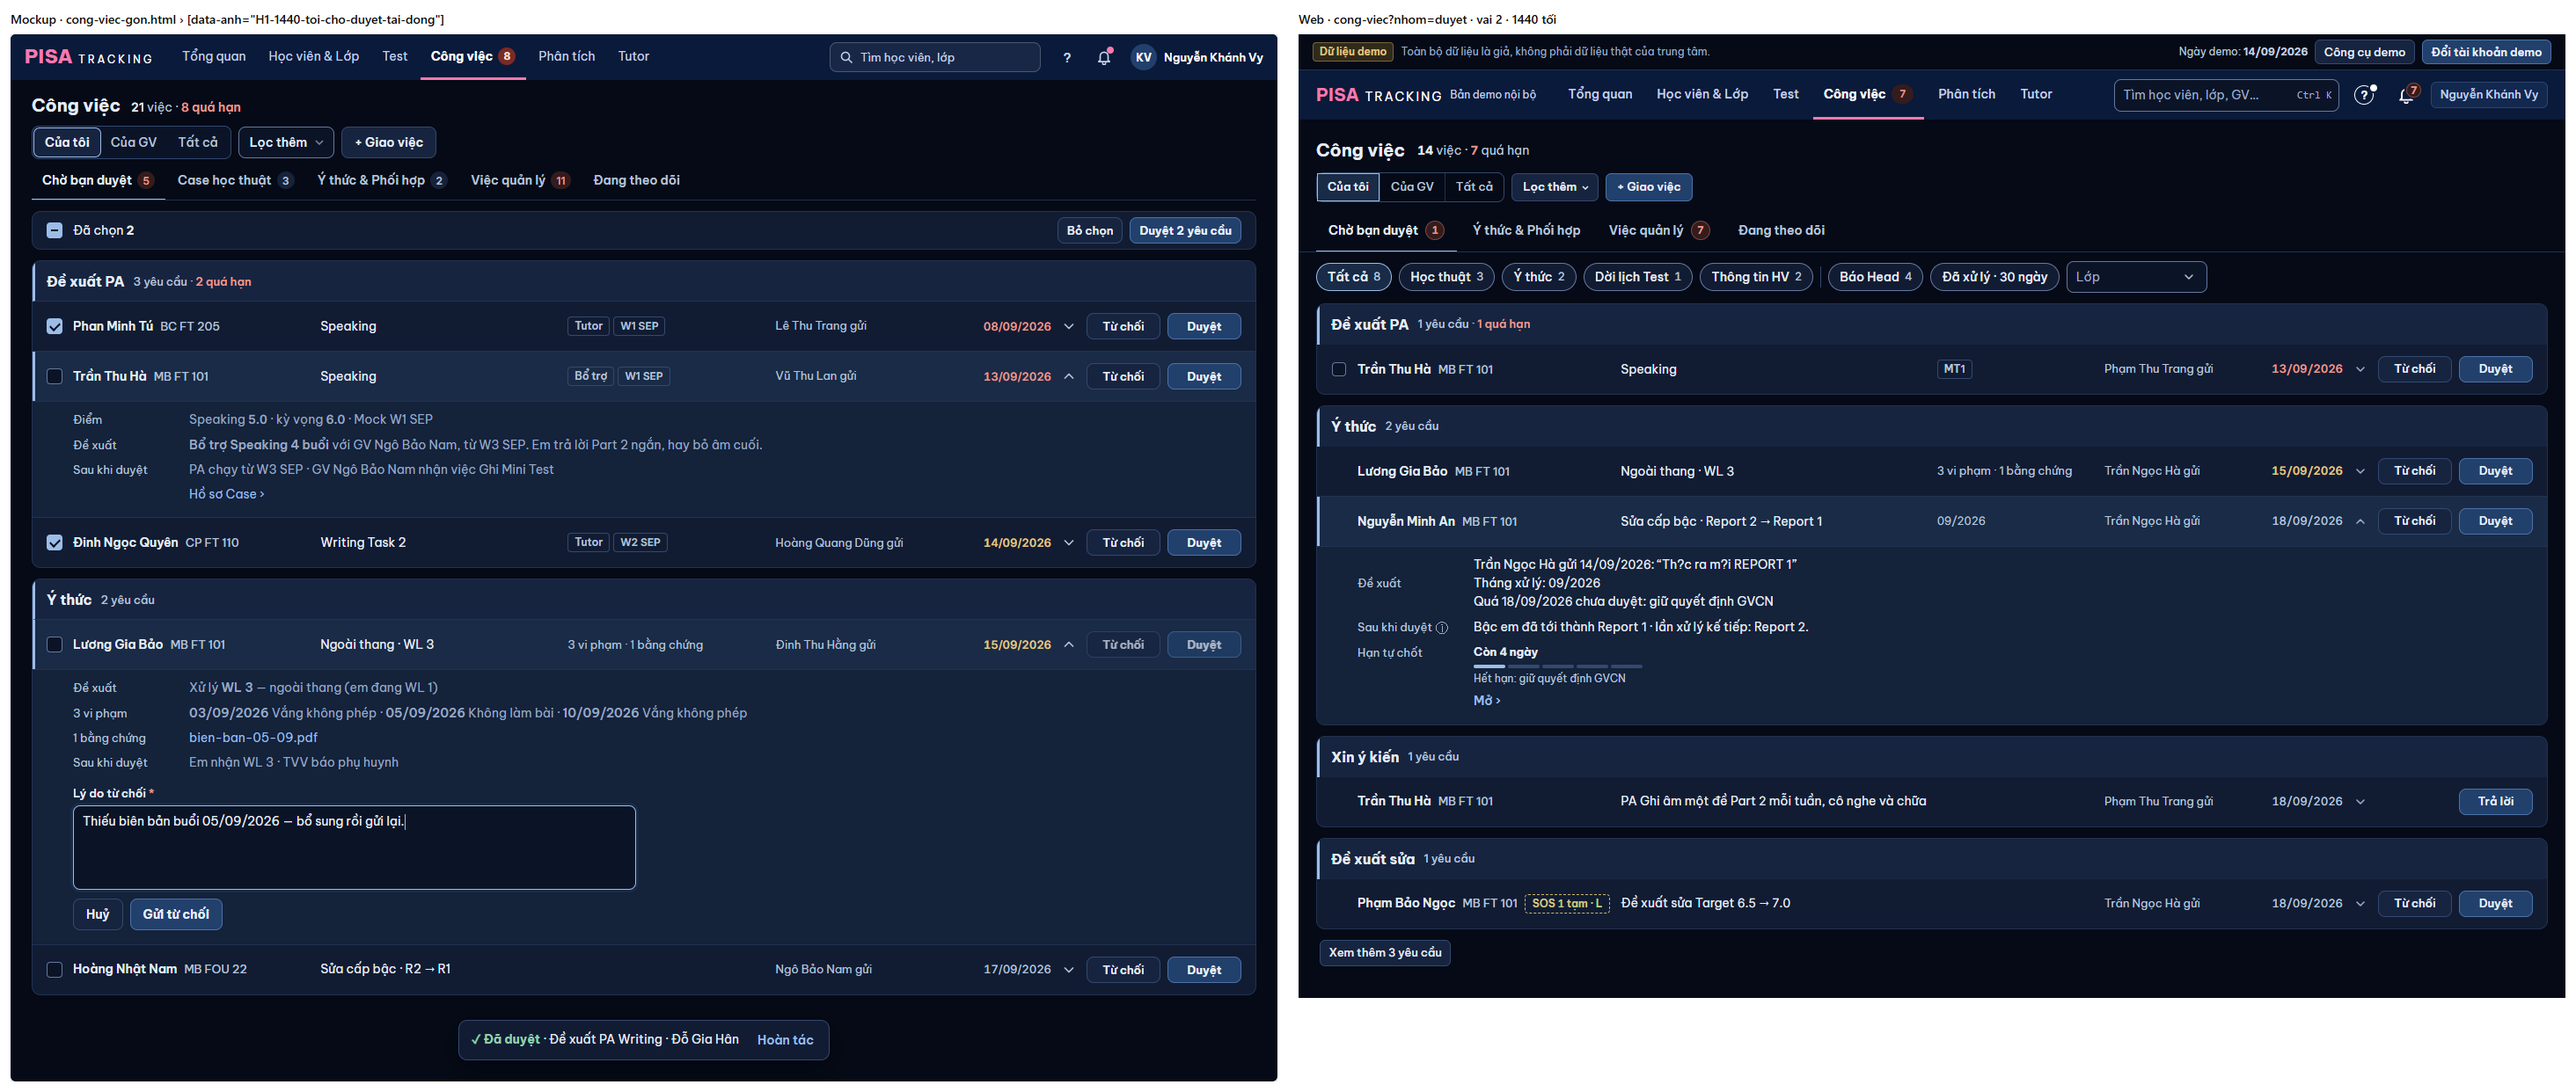
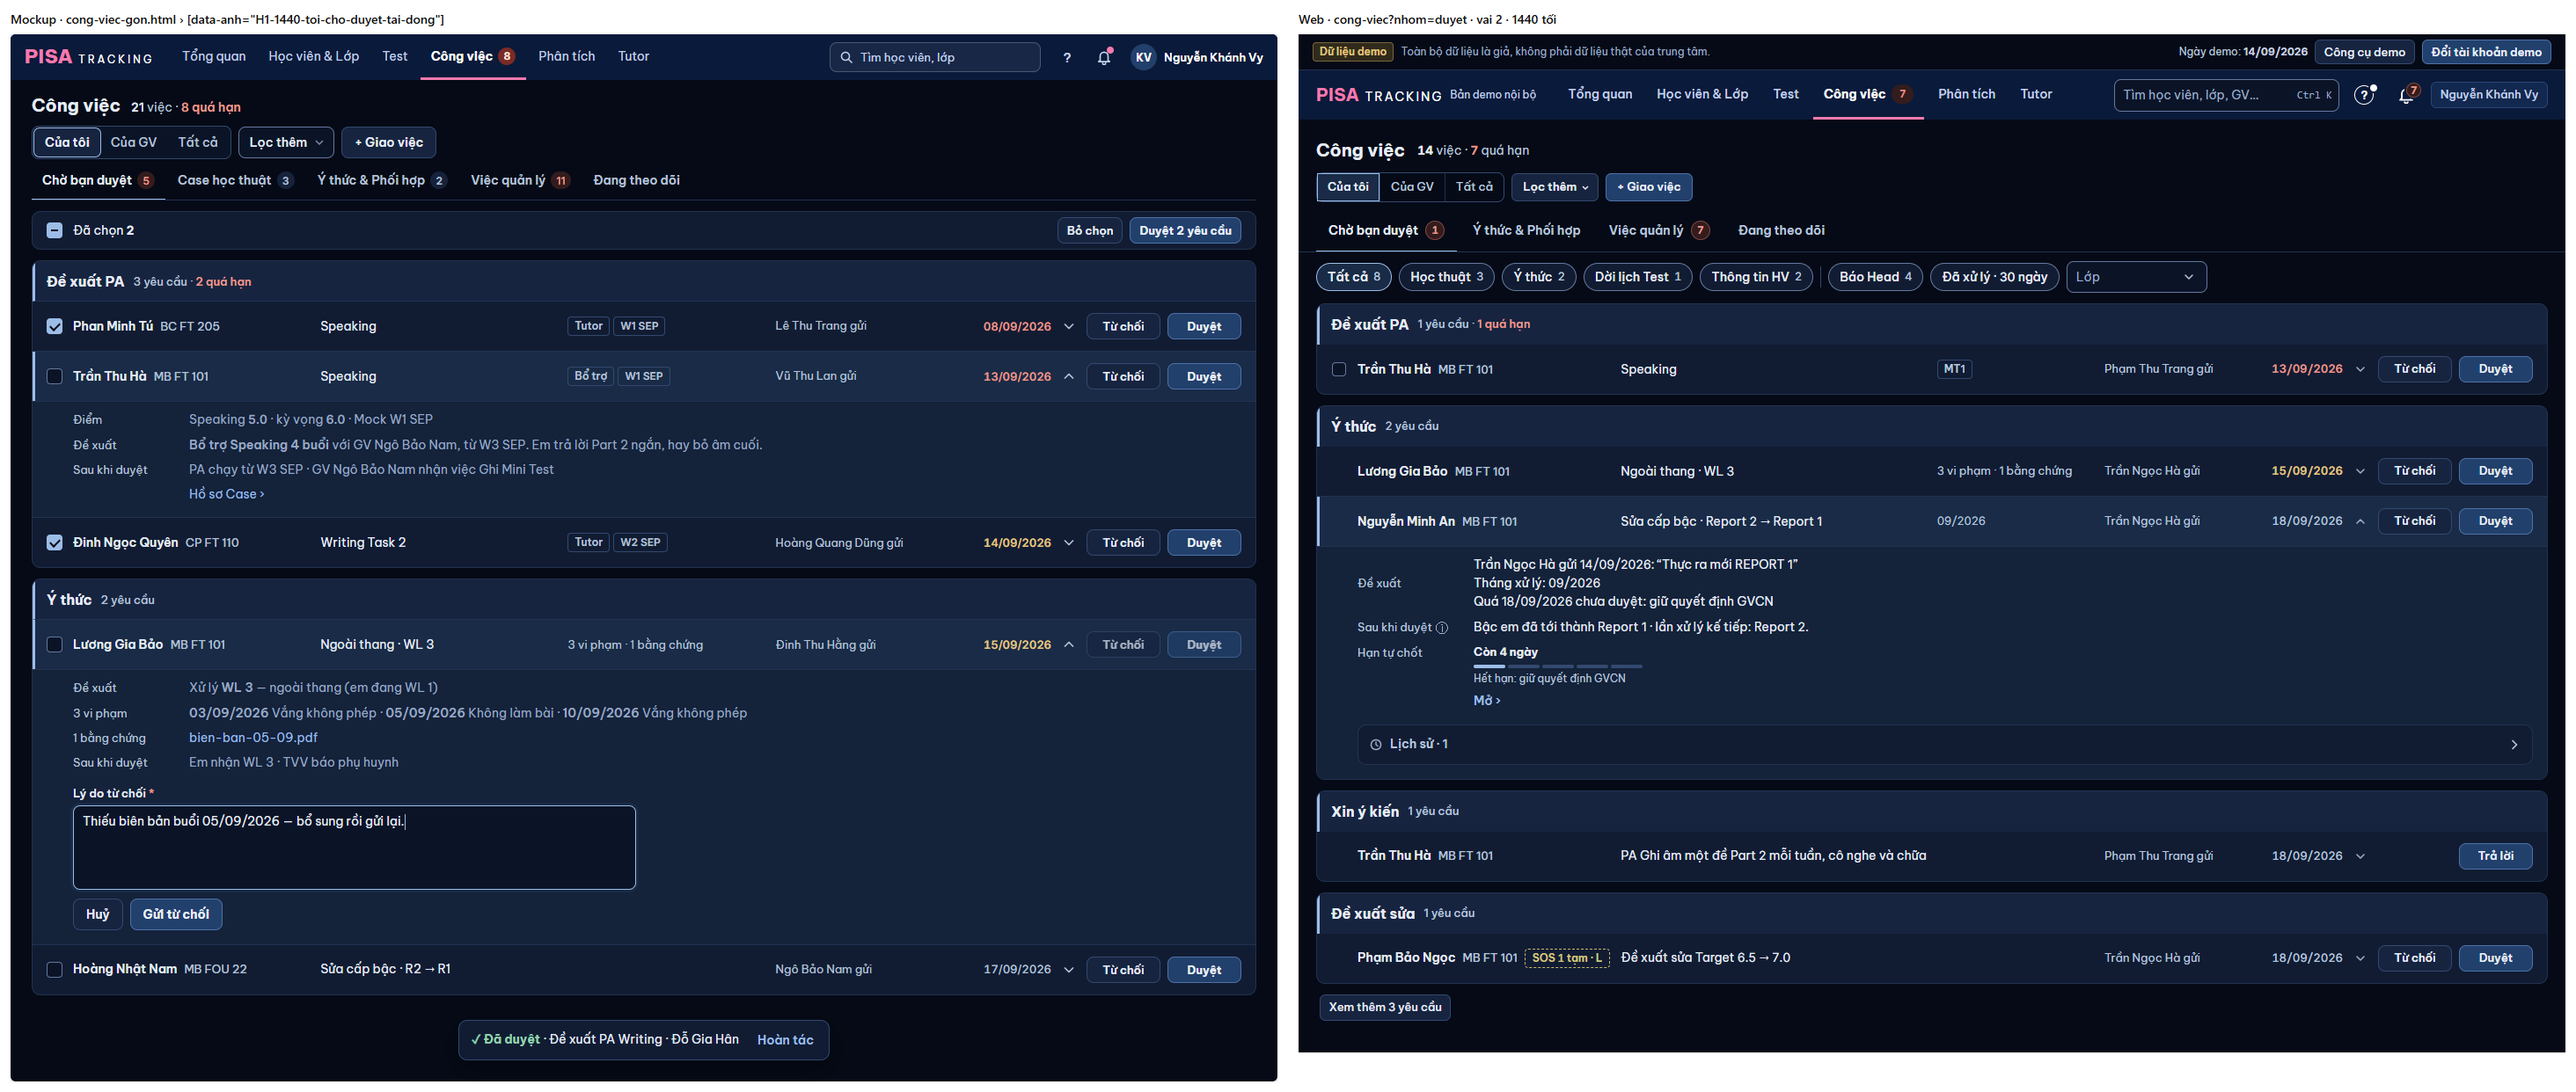
Chụp lại thẻ Sửa cấp bậc: dữ liệu demo tạo bằng UTF-8 (lỗi '?' là do curl ANSI)

Changed region(s): [[0.4973, 0.6425, 1.0, 0.9791], [0.6527, 0.4895, 0.6837, 0.5201]]

diff --git a/docs/anh/cho-duyet-tai-cho/khop-khac.md b/docs/anh/cho-duyet-tai-cho/khop-khac.md
@@ -66,7 +66,7 @@ KHỚP hình ảnh ước tính ≥ 90 % (cột, cỡ / đậm chữ, cao dòng,
 - Phần mở của MỌI loại thẻ là một lưới nhãn · giá trị (cột nhãn 120 px, giá trị tới 72 ký tự, nên đoạn dài gãy dòng cùng một chỗ ở mọi thẻ): Điểm · Đề xuất / Câu hỏi · n vi phạm · n bằng chứng · Sau khi duyệt · Hạn tự chốt · link hồ sơ cuối lưới. ⓘ quy chế đứng cạnh nhãn nó giải thích.
 - `KhoiDuyetYThuc` có chế độ `luoi`: ngày vi phạm dd/mm/yyyy một dòng, chip kỹ năng sau ngày, người ghi / mô tả dòng dưới; tên tệp bằng chứng là link ngay tại giá trị (ảnh xem trước giữ).
 - 375: tên em một dòng, chip SOS xuống tầng hai, mã lớp ở tầng hai ("MB FT 101 · Speaking"), tên việc dài xuống dòng trong khung (không cắt).
-- Ảnh thêm: `8-xin-y-kien-tra-loi` · `9-doi-lich-chon-tuan` (1440 + 375); `2-mo-mot-dong` là thẻ Đề xuất PA. Thẻ Sửa cấp bậc (`sua_khai_bac`, #2058 đã gộp main): `10-sua-cap-bac` — cùng lưới, "Hạn tự chốt" đếm ngược như thẻ Ý thức (chữ lỗi dấu "Th?c ra" là do tạo dữ liệu demo bằng curl, không phải web).
+- Ảnh thêm: `8-xin-y-kien-tra-loi` · `9-doi-lich-chon-tuan` (1440 + 375); `2-mo-mot-dong` là thẻ Đề xuất PA. Thẻ Sửa cấp bậc (`sua_khai_bac`, #2058 đã gộp main): `10-sua-cap-bac` — cùng lưới, "Hạn tự chốt" đếm ngược như thẻ Ý thức.
 
 ## 4. Khác mockup — lý do ([XM] cho PTA Plan)
 
